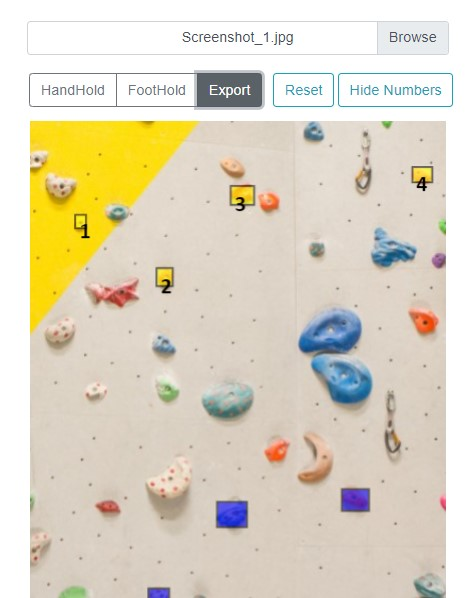
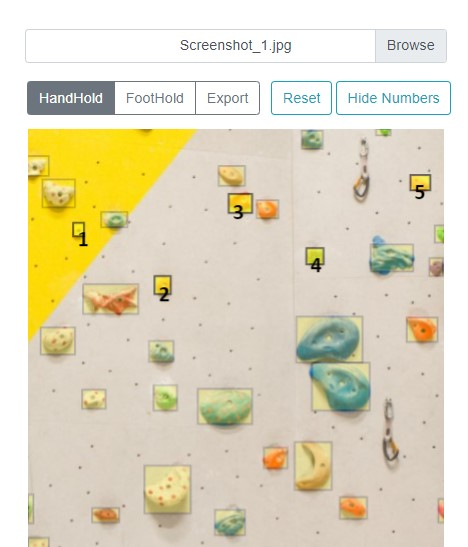
docs: Update screenshots by breaking down into more steps

diff --git a/user_interface/src/views/About.vue b/user_interface/src/views/About.vue
@@ -1,40 +1,51 @@
 <template>
   <b-jumbotron>
-    <h1 class="display-4">Allez Climbers!</h1>
+    <h1 class="display-4">Hello Climbers! &#129495;</h1>
+    <hr class="my-4" />
     <p class="lead">
       Personally, when people make routes for me at the gym, I tend to forget
       half of the moves with my goldfish memory.
     </p>
     <p class="lead">
-      One way to solve this is to label out the routes on mobile, but circling
-      and numbering them takes too much time too.
+      One way is to draw them out on handphone but it is difficult to point out the exact holds with fat fingers.
     </p>
+    <p class="lead">
+      Labeling the exact order of moves can be troublesome too.
+    </p>
+    
     <hr class="my-4" />
     <p class="lead my-4">1. Upload the photo of a climbing wall</p>
-    <img src="@/assets/Screenshot_1.jpg" />
-    <p class="lead my-4">2. Label the holds as handholds or footholds</p>
-    <img src="@/assets/Screenshot_2.jpg" />
-    <p class="lead my-4">3. Export it to share with friends</p>
-    <img src="@/assets/Screenshot_3.jpg" />
+    <img class="border border-secondary" src="@/assets/Screenshot_1.jpg" />
+    <p class="lead my-4">2. The holds will be marked automatically</p>
+    <img class="border border-secondary" src="@/assets/Screenshot_2.jpg" />
+    <p class="lead my-4">3. Select your handholds</p>
+    <img class="border border-secondary" src="@/assets/Screenshot_3.jpg" />
+    <p class="lead my-4">4. Select your footholds</p>
+    <img class="border border-secondary" src="@/assets/Screenshot_4.jpg" />
+    <p class="lead my-4">5. Export as an image to share with friends</p>
+    <img class="border border-secondary" src="@/assets/Screenshot_5.jpg" />
 
     <hr class="my-4" />
+    <p class="lead my-4">Pull requests are welcomed!</p>
+    
     <b-button
       size="lg"
       variant="primary"
       class="mx-2"
       href="https://github.com/yarkhinephyo/yolo_bouldering"
       role="button"
-      >Github</b-button
+      ><b-icon-github /> Github</b-button
     >
     <b-button
       size="lg"
       variant="primary"
       class="mx-2"
-      href="https://www.linkedin.com/in/yar-khine-phyo-93073012b/"
+      href="https://www.linkedin.com/in/yar-khine-phyo/"
       role="button"
-      >Contact</b-button
+      ><b-icon-linkedin /> Linkedin</b-button
     >
   </b-jumbotron>
+  
 </template>
 <style scoped>
 img {
